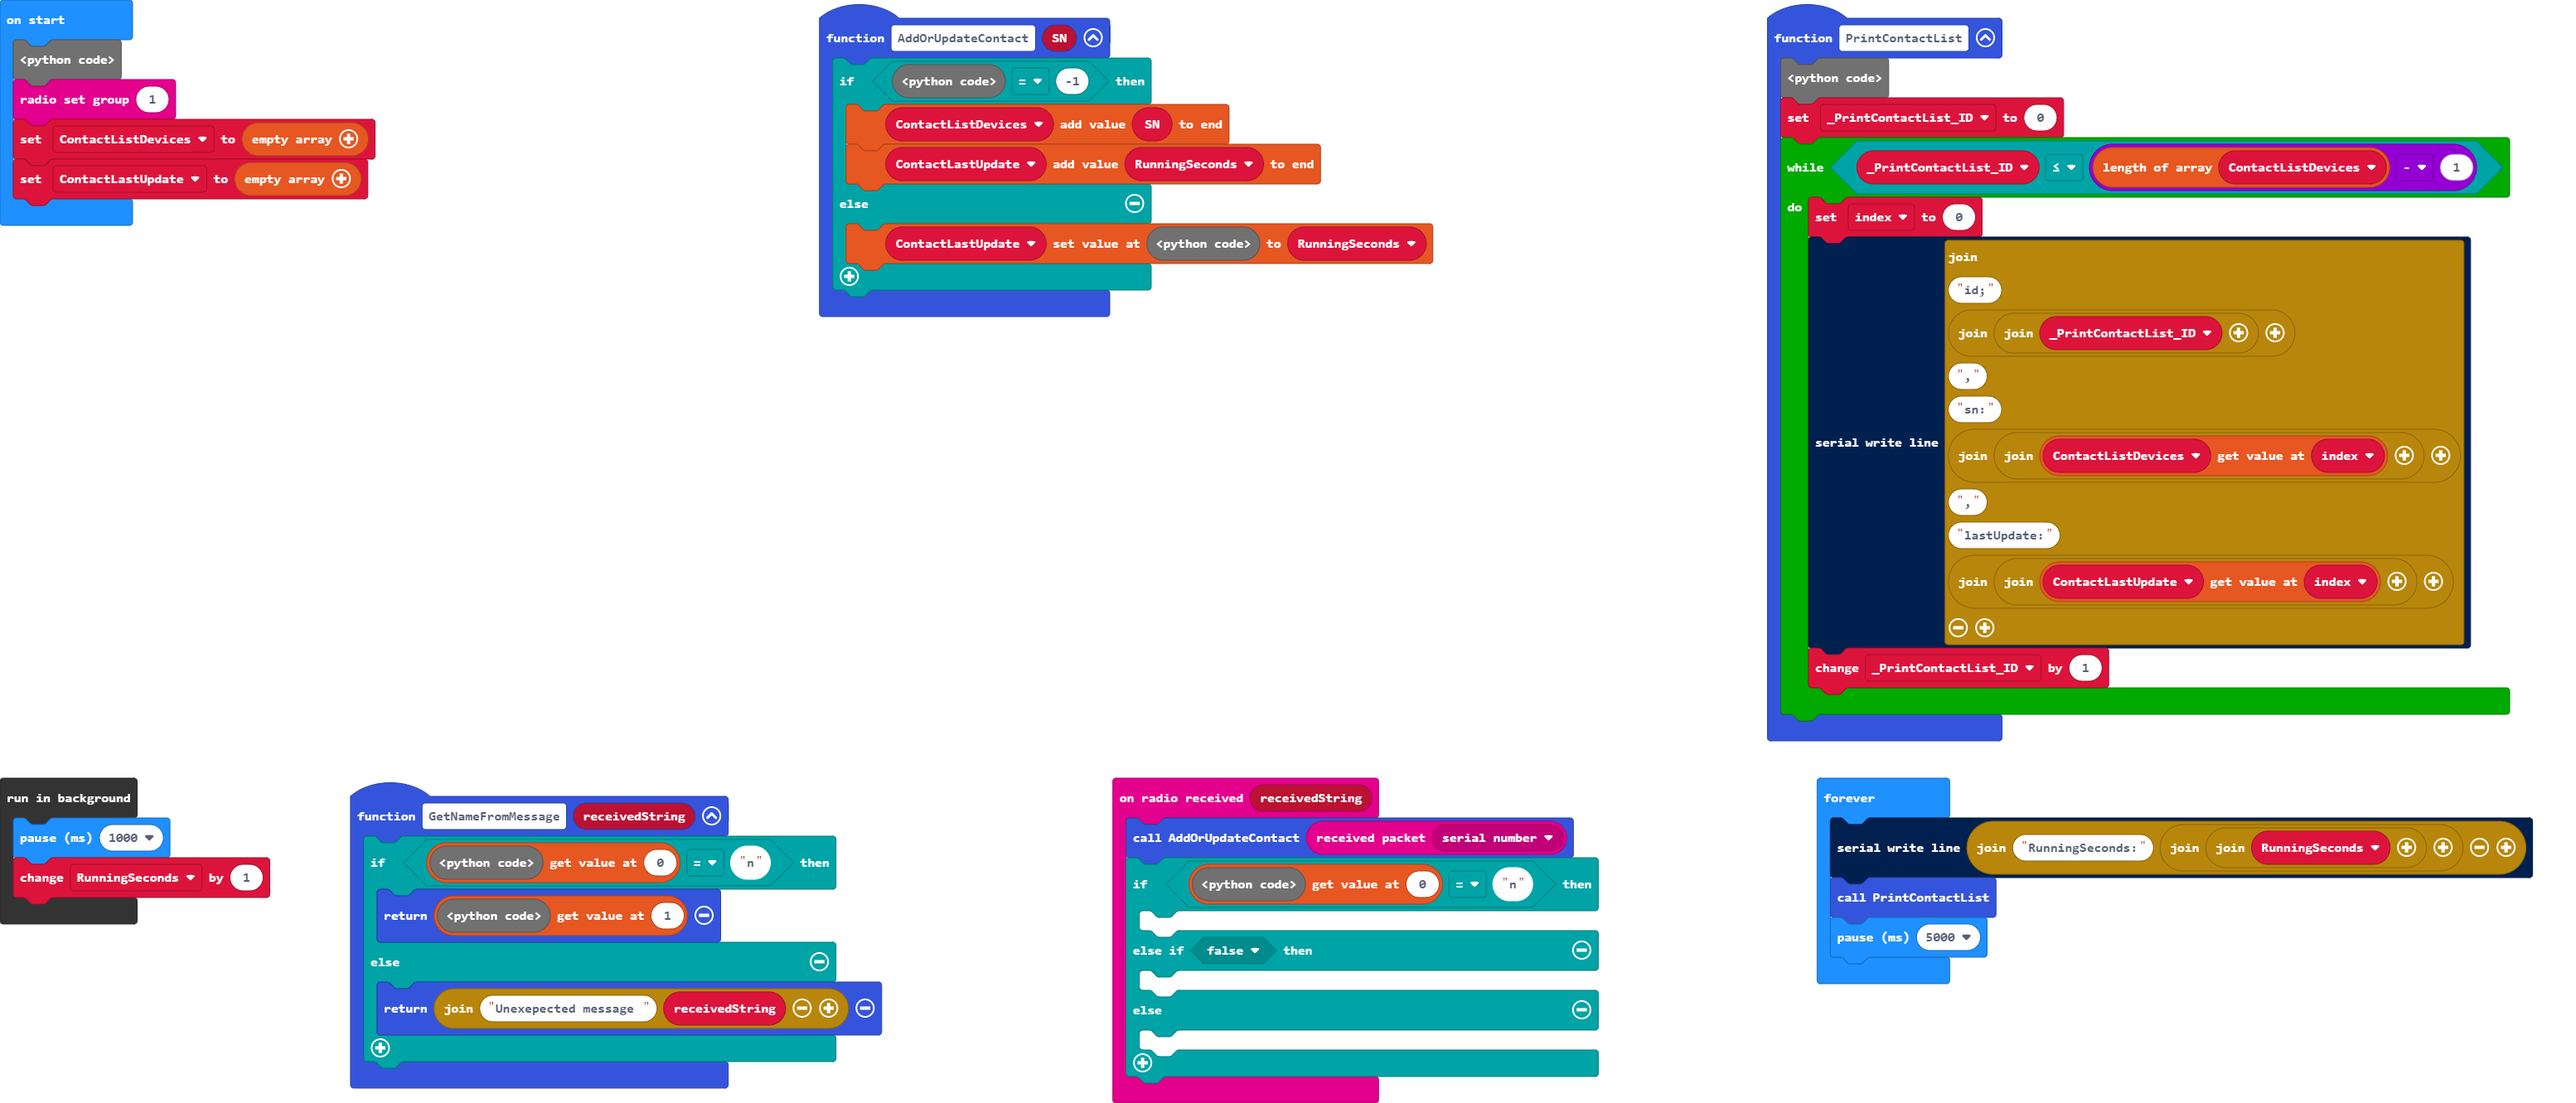
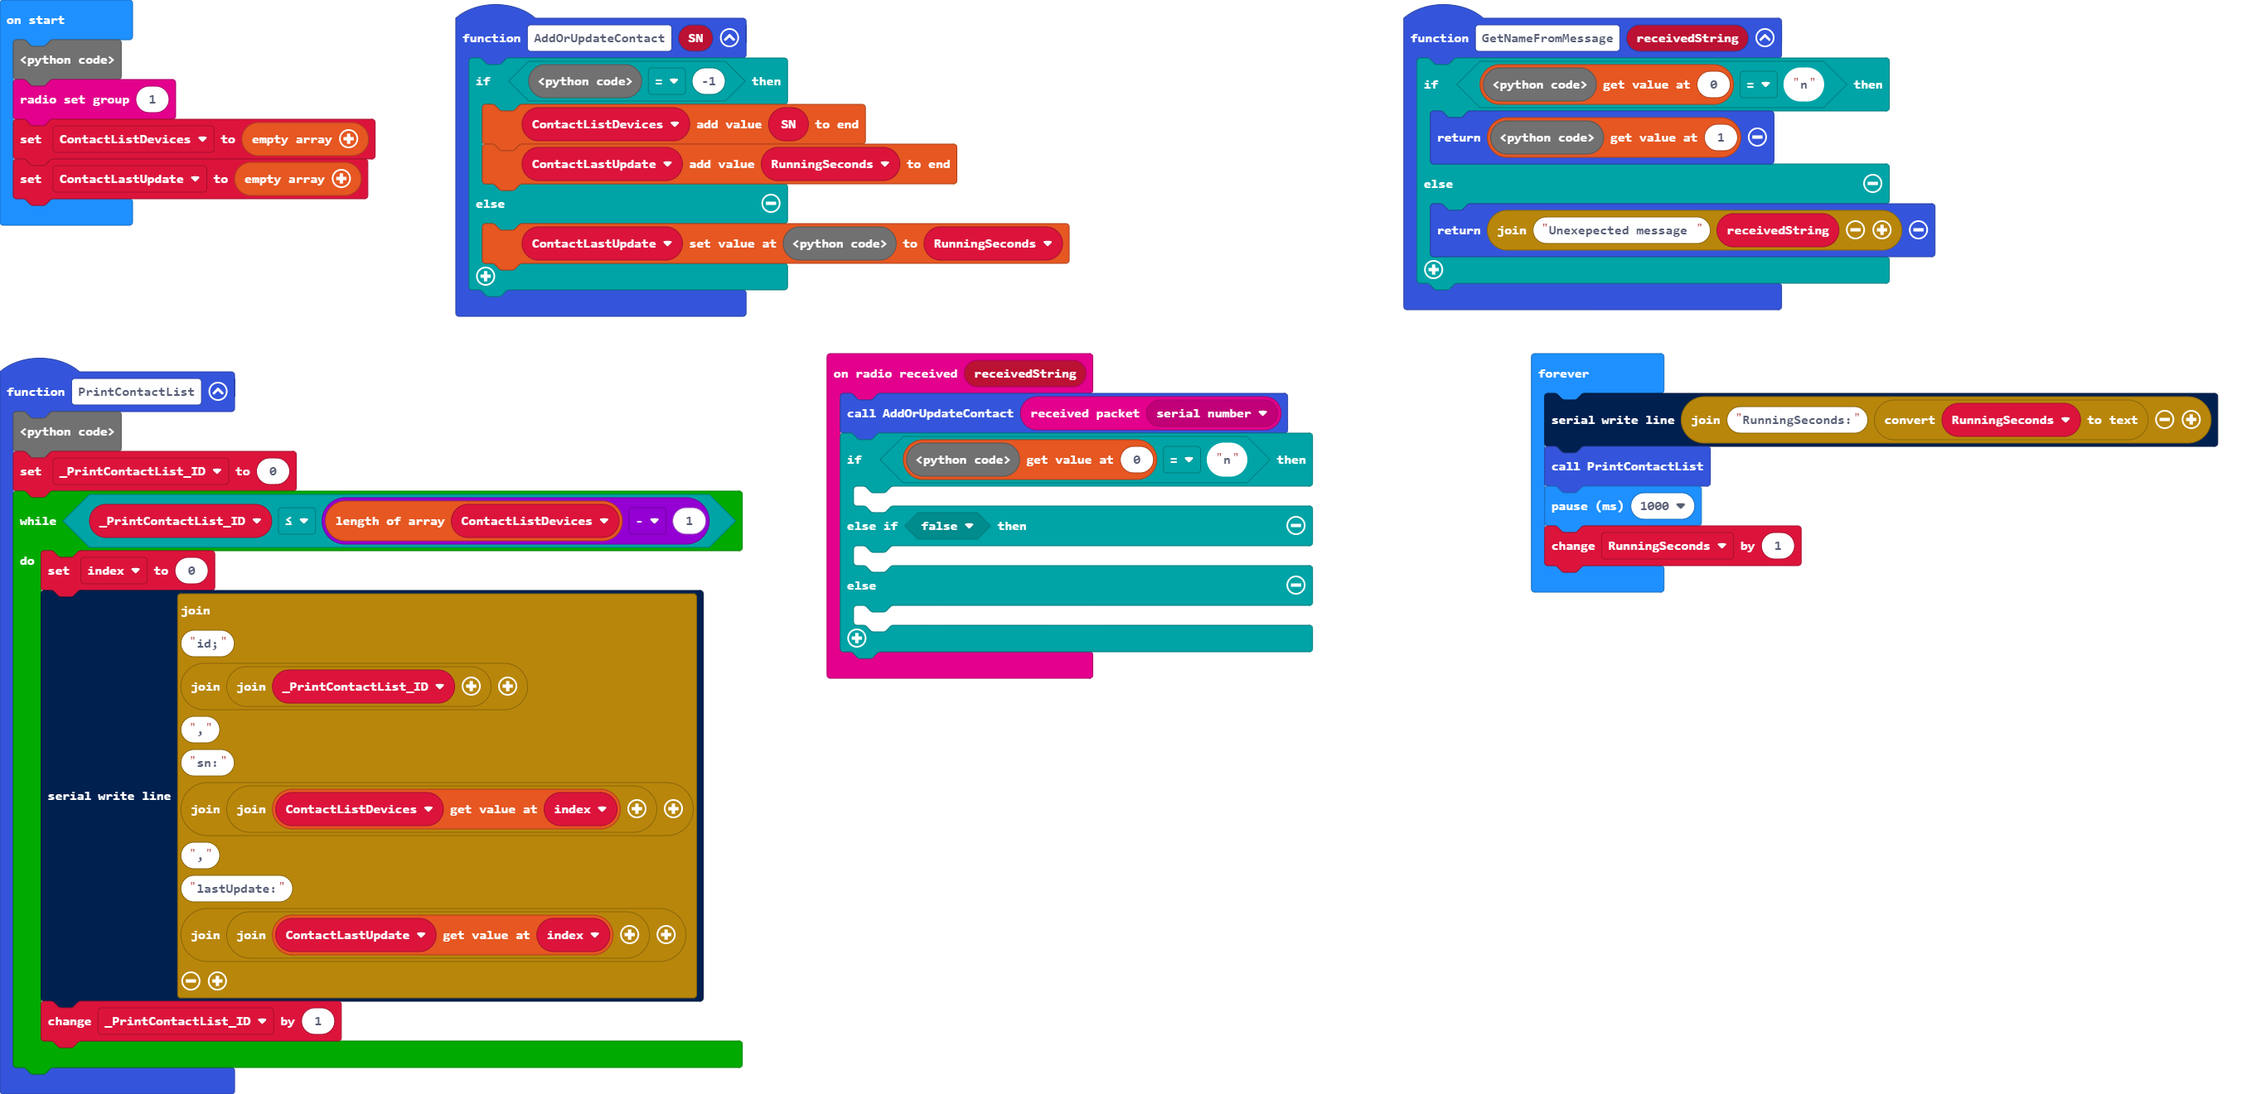
Update pxt.json, main.blocks, main.ts, main.py

diff --git a/main.ts b/main.ts
@@ -1,58 +1,47 @@
-function AddOrUpdateContact(SN: number) {
+function AddOrUpdateContact (SN: number) {
     if (_py.py_array_index(ContactListDevices, SN) == -1) {
         ContactListDevices.push(SN)
         ContactLastUpdate.push(RunningSeconds)
     } else {
         ContactLastUpdate[_py.py_array_index(ContactListDevices, SN)] = RunningSeconds
     }
-    
 }
-
-function GetNameFromMessage(receivedString: string): string {
+function GetNameFromMessage (receivedString: string) {
     if (_py.py_string_split(receivedString, ":")[0] == "n") {
         return _py.py_string_split(receivedString, ":")[1]
     } else {
         return "Unexepected message " + receivedString
     }
-    
 }
-
-function PrintContactList() {
+function PrintContactList () {
     let index: number;
-    
-    _PrintContactList_ID = 0
+_PrintContactList_ID = 0
     while (_PrintContactList_ID <= ContactListDevices.length - 1) {
         index = 0
-        serial.writeLine("id;" + ("" + ("" + _PrintContactList_ID)) + "," + "sn:" + ("" + ("" + ContactListDevices[index])) + "," + "lastUpdate:" + ("" + ("" + ContactLastUpdate[index])))
+        serial.writeLine("id;" + ("" + _PrintContactList_ID) + "," + "sn:" + ("" + ContactListDevices[index]) + "," + "lastUpdate:" + ("" + ContactLastUpdate[index]))
         _PrintContactList_ID += 1
     }
 }
-
-radio.onReceivedString(function on_received_string(receivedString: string) {
+radio.onReceivedString(function (receivedString) {
     AddOrUpdateContact(radio.receivedPacket(RadioPacketProperty.SerialNumber))
     if (_py.py_string_split("this", ":")[0] == "n") {
-        
+    	
     } else if (false) {
-        
+    	
     } else {
-        
+    	
     }
-    
 })
 let _PrintContactList_ID = 0
 let RunningSeconds = 0
-let ContactLastUpdate : number[] = []
+let ContactLastUpdate: number[] = []
 let ContactListDevices : number[] = []
 radio.setGroup(1)
 ContactListDevices = []
 ContactLastUpdate = []
-basic.forever(function on_forever() {
-    serial.writeLine("RunningSeconds:" + ("" + ("" + RunningSeconds)))
+basic.forever(function () {
+    serial.writeLine("RunningSeconds:" + convertToText(RunningSeconds))
     PrintContactList()
-    basic.pause(5000)
-})
-control.inBackground(function on_in_background() {
-    
     basic.pause(1000)
     RunningSeconds += 1
 })

diff --git a/main.py b/main.py
@@ -44,5 +44,5 @@ basic.forever(on_forever)
 def on_in_background():
     global RunningSeconds
     basic.pause(1000)
-    RunningSeconds += 1
+    RunningSeconds = RunningSeconds + 1
 control.in_background(on_in_background)
